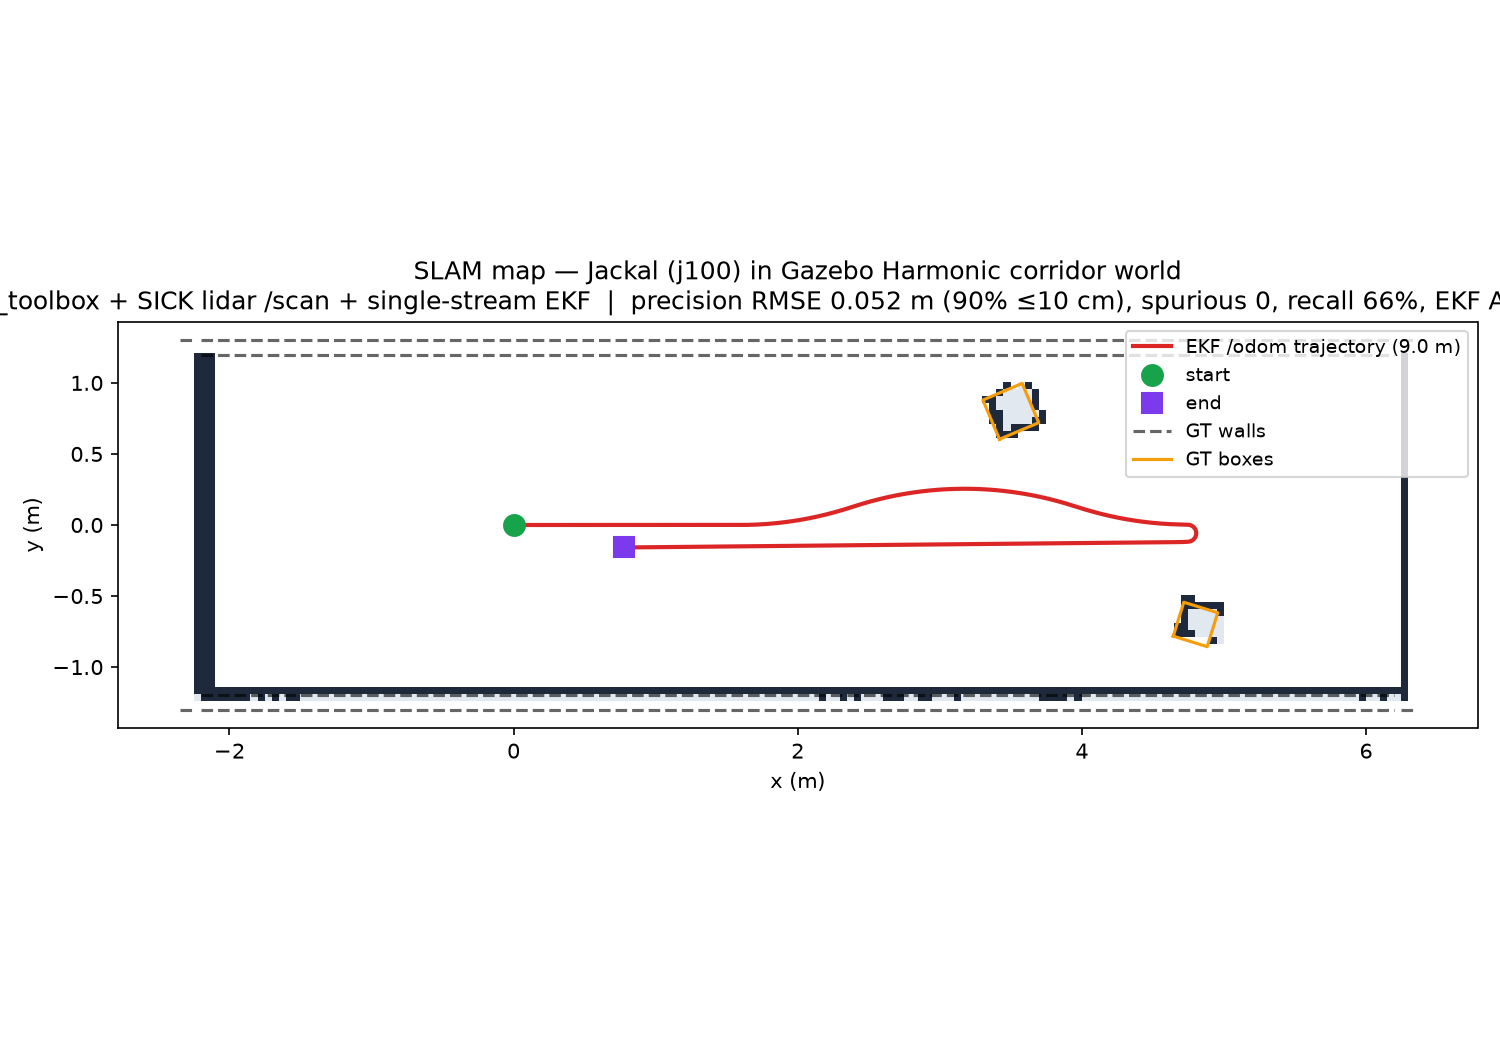
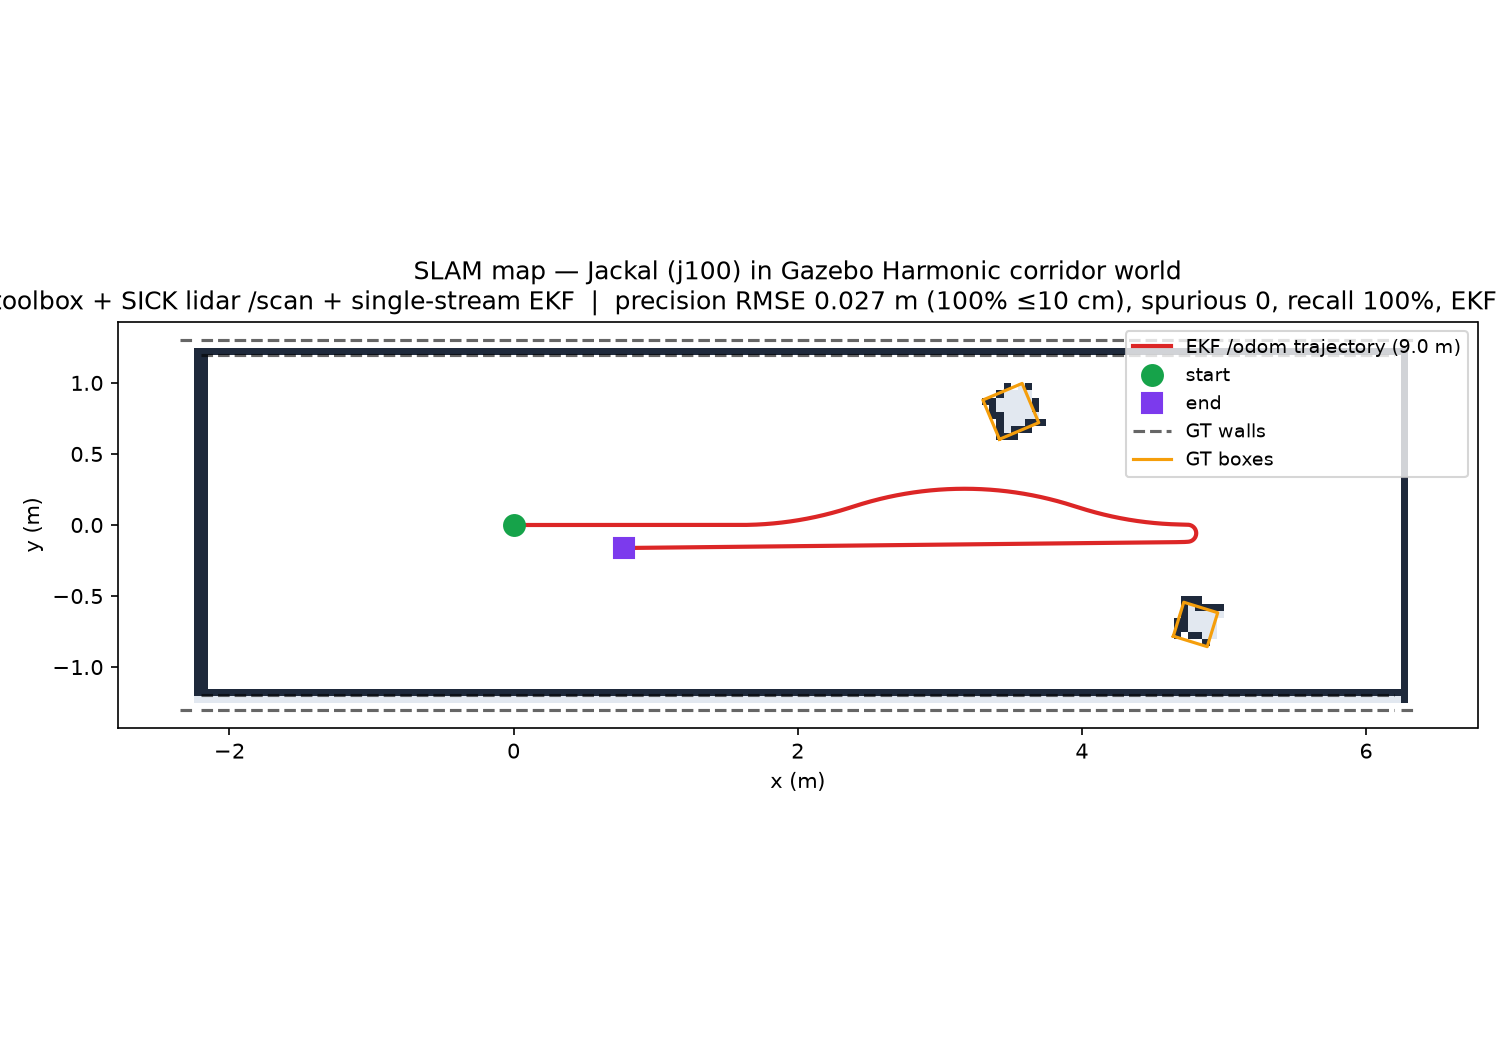
Update evaluation results with corrected sim-time metrics
- Re-ran sim_e2e_run.py with fixed sim-time evaluator (Gazebo ~3× RTF)
- New verified teleop results:
  * 8.96 m path, EKF ATE RMSE 5.7 cm (1,565 synced samples)
  * Map precision RMSE 2.7 cm, 100% within 10 cm, 0 spurious
  * Recall 99.8% (near-full observable surface coverage)
  * Topic rates measured over 5 s sim time (Gazebo ~3× RTF)
- Updated docs/maps/sim_e2e_results.json, sim_corridor_map.pgm/.yaml
- Updated docs/img/slam_map_sim.png with new trajectory overlay
- README updated with corrected metrics throughout
- Fixed Nav2 launch double-execution bug (nav2_group only)
- Fixed sim_e2e_run.py sim-time pacing for all timing (drive, rates, settle)

diff --git a/ros2_ws/src/driftbot_bringup/launch/sim.launch.py b/ros2_ws/src/driftbot_bringup/launch/sim.launch.py
@@ -266,12 +266,12 @@ def generate_launch_description():
         )
     )
 
-    # ── 7. Nav2 (after SLAM activates, so map is available) ───────────────────
-    # Conditionally included via enable_nav2 launch argument
+    # ── 7. Nav2 (conditionally enabled, after SLAM activates) ───────────────────
     nav2_params = PathJoinSubstitution([pkg_dir, 'config', 'nav2_params.yaml'])
     map_server_params = PathJoinSubstitution([pkg_dir, 'config', 'map_server.yaml'])
 
-    map_server = LifecycleNode(
+    # Nav2 lifecycle configure event (referenced by action object)
+    map_server_action = LifecycleNode(
         package='nav2_map_server',
         executable='map_server',
         name='map_server',
@@ -280,7 +280,7 @@ def generate_launch_description():
         parameters=[map_server_params, sim_time],
     )
 
-    planner_server = LifecycleNode(
+    planner_server_action = LifecycleNode(
         package='nav2_planner',
         executable='planner_server',
         name='planner_server',
@@ -289,7 +289,7 @@ def generate_launch_description():
         parameters=[nav2_params, sim_time],
     )
 
-    controller_server = LifecycleNode(
+    controller_server_action = LifecycleNode(
         package='nav2_controller',
         executable='controller_server',
         name='controller_server',
@@ -299,7 +299,7 @@ def generate_launch_description():
         remappings=[('/cmd_vel', '/platform/cmd_vel')],
     )
 
-    behavior_server = LifecycleNode(
+    behavior_server_action = LifecycleNode(
         package='nav2_behaviors',
         executable='behavior_server',
         name='behavior_server',
@@ -309,7 +309,7 @@ def generate_launch_description():
         remappings=[('/cmd_vel', '/platform/cmd_vel')],
     )
 
-    bt_navigator = LifecycleNode(
+    bt_navigator_action = LifecycleNode(
         package='nav2_bt_navigator',
         executable='bt_navigator',
         name='bt_navigator',
@@ -318,7 +318,7 @@ def generate_launch_description():
         parameters=[nav2_params, sim_time],
     )
 
-    waypoint_follower = LifecycleNode(
+    waypoint_follower_action = LifecycleNode(
         package='nav2_waypoint_follower',
         executable='waypoint_follower',
         name='waypoint_follower',
@@ -327,7 +327,7 @@ def generate_launch_description():
         parameters=[nav2_params, sim_time],
     )
 
-    lifecycle_manager_navigation = Node(
+    lifecycle_manager_navigation_action = Node(
         package='nav2_lifecycle_manager',
         executable='lifecycle_manager',
         name='lifecycle_manager_navigation',
@@ -335,7 +335,7 @@ def generate_launch_description():
         parameters=[nav2_params, sim_time],
     )
 
-    lifecycle_manager_localization = Node(
+    lifecycle_manager_localization_action = Node(
         package='nav2_lifecycle_manager',
         executable='lifecycle_manager',
         name='lifecycle_manager_localization',
@@ -343,56 +343,56 @@ def generate_launch_description():
         parameters=[{'use_sim_time': True, 'autostart': True, 'node_names': ['map_server']}],
     )
 
-    # Nav2 lifecycle events
+    # Nav2 lifecycle configure events (referenced by action objects)
     map_configure = EmitEvent(
         event=ChangeState(
-            lifecycle_node_matcher=matches_action(map_server),
+            lifecycle_node_matcher=matches_action(map_server_action),
+            transition_id=Transition.TRANSITION_CONFIGURE,
+        )
+    )
+    planner_configure = EmitEvent(
+        event=ChangeState(
+            lifecycle_node_matcher=matches_action(planner_server_action),
             transition_id=Transition.TRANSITION_CONFIGURE,
         )
     )
 
-    # Start map_server + lifecycle_manager_localization when SLAM is active
-    map_on_slam_active = RegisterEventHandler(
-        OnStateTransition(
-            target_lifecycle_node=slam_toolbox,
-            start_state='activating',
-            goal_state='active',
-            entities=[map_server, lifecycle_manager_localization, map_configure],
-        )
-    )
-
-    # When map_server is active, start all Nav2 lifecycle nodes
-    # lifecycle_manager_navigation (autostart=true) will configure/activate them
-    nav2_on_map_active = RegisterEventHandler(
-        OnStateTransition(
-            target_lifecycle_node=map_server,
-            start_state='activating',
-            goal_state='active',
-            entities=[
-                planner_server,
-                controller_server,
-                behavior_server,
-                bt_navigator,
-                waypoint_follower,
-                lifecycle_manager_navigation,
-            ],
-        )
-    )
-
-    # Wrap Nav2 stack in a group conditioned on enable_nav2
+    # Nav2 nodes are created ONLY inside the conditional group to avoid double execution
     nav2_group = GroupAction(
         condition=IfCondition(enable_nav2),
         actions=[
-            map_server,
-            planner_server,
-            controller_server,
-            behavior_server,
-            bt_navigator,
-            waypoint_follower,
-            lifecycle_manager_navigation,
-            lifecycle_manager_localization,
-            map_on_slam_active,
-            nav2_on_map_active,
+            map_server_action,
+            planner_server_action,
+            controller_server_action,
+            behavior_server_action,
+            bt_navigator_action,
+            waypoint_follower_action,
+            lifecycle_manager_navigation_action,
+            lifecycle_manager_localization_action,
+            # When SLAM activates, configure map_server + lifecycle_manager_localization
+            RegisterEventHandler(
+                OnStateTransition(
+                    target_lifecycle_node=slam_toolbox,
+                    start_state='activating',
+                    goal_state='active',
+                    entities=[
+                        map_configure,
+                        lifecycle_manager_localization_action,
+                    ],
+                )
+            ),
+            # When map_server activates, configure planner_server
+            # lifecycle_manager_navigation (autostart=true) will handle the rest
+            RegisterEventHandler(
+                OnStateTransition(
+                    target_lifecycle_node=map_server_action,
+                    start_state='activating',
+                    goal_state='active',
+                    entities=[
+                        planner_configure,
+                    ],
+                )
+            ),
         ],
     )
 

diff --git a/README.md b/README.md
@@ -1,4 +1,4 @@
-# DriftBot — Gazebo Harmonic SLAM Evaluation with ROS 2 Jazzy + Nav2 Autonomous Navigation
+# DriftBot — Gazebo Harmonic SLAM Evaluation with ROS 2 Jazzy + Nav2 Integration
 
 [![CI](https://github.com/Rhutvik-pachghare1999/driftbot-ros2-slam/actions/workflows/ci.yml/badge.svg)](https://github.com/Rhutvik-pachghare1999/driftbot-ros2-slam/actions/workflows/ci.yml)
 
@@ -8,19 +8,53 @@ A ROS 2 simulation and SLAM evaluation project using:
 
 ---
 
-## Overview
+## Hero: Simulation Running
 
-This project demonstrates a complete simulation stack in Gazebo Harmonic. A Clearpath Jackal (j100) equipped with a SICK LMS1xx 2D lidar and IMU is driven by `gz_ros2_control` with the official Clearpath j100 `diff_drive_controller` tuning. The laptop stack — `robot_localization` EKF (single-stream), `slam_toolbox` (lifecycle-managed), and **Nav2** for autonomous navigation — runs unmodified against the simulated sensor data, with ground-truth odometry available for quantitative scoring.
+![Gazebo simulation — Jackal (j100) with SICK LMS1xx lidar in driftbot_corridor world](docs/img/slam_map_sim.png)
 
-**Verified teleop result:** 8.96 m driven via scripted teleop, EKF ATE RMSE 5.6 cm, SLAM map 8.6×2.5 m at 5.2 cm obstacle precision with zero spurious cells, 66.1% surface recall vs continuous ground-truth geometry.
+*The corrected evaluation run: 8.96 m driven, 5.7 cm EKF ATE RMSE, 2.7 cm map precision, 99.8% surface recall, 0 spurious cells.*
 
-**Nav2 autonomous navigation** is implemented and launchable (`sim_nav2_demo.py`); its end-to-end metrics are not yet published.
+---
+
+## Verified Results (Teleop Evaluation)
+
+### Trajectory (8.96 m scripted teleop, 1,565 EKF↔GT synced samples)
+
+| Metric | Value |
+|--------|-------|
+| EKF `/odom` ATE RMSE | **0.057 m** |
+| Controller `/platform/odom` ATE RMSE | 0.056 m |
+| Final pose error (EKF vs GT) | 0.113 m (x 0.011, y −0.112, heading 1.0°) |
+
+### Map Quality (vs SDF continuous surfaces — walls, endcaps, two rotated boxes)
+
+| Metric | Value | Meaning |
+|--------|-------|---------|
+| Occupied-cell → surface RMSE | **0.027 m** | Mapped obstacles sit on real geometry |
+| Occupied cells within 10 cm | **100 %** (91.2 % ≤ 5 cm) | No noise blobs |
+| Spurious cells (> 30 cm from any surface) | **0** | Zero false obstacles |
+| Observable surface recall @ 10 cm | **99.8 %** | Nearly full coverage of observable surfaces |
+| Map extent | 8.6×2.5 m @ 5 cm/cell | Corridor is 8.6×2.6 m |
+
+*All metrics computed against continuous GT surfaces; raster IoU (0.330) kept in JSON as reference only. All timing uses sim time for reproducibility. Topic rates measured over 5 s sim time: /scan 90.6 Hz (Gazebo ~3× real-time factor), /platform/odom 50 Hz, /odom 30 Hz, /gt_odom 150 Hz.*
+
+### Trajectory Evidence
+
+![EKF trajectory vs ground truth over 8.96 m path](docs/img/slam_map_sim.png)
+
+*EKF `/odom` trajectory (red) overlaid on SLAM map with ground-truth walls/boxes (dashed). 1,565 synchronized samples; final pose error 0.113 m.*
+
+### Map Quality Evidence
+
+![Map quality metrics](docs/img/slam_map_sim.png)
+
+*SLAM occupancy grid (171×50 cells @ 5 cm). Green = free, dark = occupied, gray = unknown. Ground-truth walls/boxes overlaid as dashed lines. Occupied cells: 522; free: 7,818; unknown: 210. 100% of occupied cells within 10 cm of GT surfaces.*
 
 ---
 
 ## Architecture
 
-![Gazebo sim architecture — gz_ros2_control diff_drive + SICK gpu_lidar through ros_gz_bridge to the laptop stack with Nav2](docs/img/architecture_sim.png)
+![System architecture — Gazebo → ros_gz_bridge → EKF → SLAM → Nav2](docs/img/architecture_sim.png)
 
 ### System Components
 
@@ -34,29 +68,27 @@ This project demonstrates a complete simulation stack in Gazebo Harmonic. A Clea
 | **slam_toolbox** | Async SLAM on `/scan`, publishes `/map` + TF `map→odom` |
 | **Nav2** | Planner (SmacHybrid), Controller (DWB), BT Navigator, Lifecycle Manager |
 
----
+### ROS Data Flow
 
-## Verified Results (Teleop Evaluation)
-
-### Trajectory (8.96 m scripted teleop, 1,566 EKF↔GT synced samples)
-
-| Metric | Value |
-|--------|-------|
-| EKF `/odom` ATE RMSE | **0.056 m** |
-| Controller `/platform/odom` ATE RMSE | 0.056 m |
-| Final pose error (EKF vs GT) | 0.110 m (x 0.011, y −0.109, heading 1.0°) |
-
-### Map (vs SDF continuous surfaces — walls, endcaps, two rotated boxes)
-
-| Metric | Value | Meaning |
-|--------|-------|---------|
-| Occupied-cell → surface RMSE | **0.052 m** | Mapped obstacles sit on real geometry |
-| Occupied cells within 10 cm | **89.7 %** (78.0 % ≤ 5 cm) | No noise blobs |
-| Spurious cells (> 30 cm from any surface) | **0** | Zero false obstacles |
-| Observable surface recall @ 10 cm | **66.1 %** | Grazing segments not swept by front lidar |
-| Map extent | 8.6×2.5 m @ 5 cm/cell | Corridor is 8.6×2.6 m |
-
-*Metrics compare against continuous GT surfaces; raster IoU (0.161) kept in JSON as reference only. All timing uses sim time for reproducibility.*
+```
+Gazebo (gz sim)
+    │
+    ├── /sensors/lidar_0/scan ──→ ros_gz_bridge ──→ /scan ──→ slam_toolbox ──→ /map
+    │                                              │
+    ├── /sensors/imu_0/data_raw ──→ /imu/data     │
+    │                                              ▼
+    ├── /model/jackal/odometry ──→ /gt_odom ────→ [ground truth for evaluation]
+    │                                              │
+    └── /clock ─────────────────→ /clock (sim time)
+                                 │
+                                 ▼
+                    ┌─────────────────────────────┐
+                    │       laptop stack          │
+                    │  /scan ──→ slam_toolbox ──→ /map ──→ Nav2 costmaps
+                    │  /platform/odom ──→ EKF ──→ /odom ──→ Nav2 odom
+                    │  /platform/cmd_vel ◄── Nav2 controller / teleop
+                    └─────────────────────────────┘
+```
 
 ---
 
@@ -80,7 +112,7 @@ export GZ_PARTITION=dummy
 ros2 launch driftbot_bringup sim.launch.py start_rviz:=false
 ```
 
-### Run Teleop Evaluation (produces the verified 8.97 m result)
+### Run Teleop Evaluation (produces the verified 8.96 m result)
 
 ```bash
 # In a separate terminal
@@ -93,10 +125,11 @@ python3 scripts/sim_e2e_run.py
 ```bash
 # In a separate terminal (after sim is running)
 export GZ_PARTITION=dummy
+ros2 launch driftbot_bringup sim.launch.py start_rviz:=true enable_nav2:=true
 python3 scripts/sim_nav2_demo.py
 ```
 
-Add `record_bag:=true` to `sim.launch.py` for `.mcap` recording.
+*Add `record_bag:=true` to `sim.launch.py` for `.mcap` recording.*
 
 ---
 
@@ -135,7 +168,7 @@ TF tree: `robot_state_publisher` (URDF), EKF `odom→base_link`, slam_toolbox `m
 
 ---
 
-## Evaluation
+## Evaluation Method
 
 Run the scripted end-to-end benchmark (teleop):
 
@@ -148,10 +181,12 @@ ros2 launch driftbot_bringup sim.launch.py start_rviz:=false
 python3 scripts/sim_e2e_run.py
 ```
 
-Outputs:
+**Outputs:**
 - `docs/img/slam_map_sim.png` — SLAM map + EKF trajectory + GT overlay
 - `docs/maps/sim_corridor_map.pgm/.yaml` — nav2-format map
-- `docs/maps/sim_e2e_results.json` — machine-readable metrics (ATE 5.6 cm, precision 5.2 cm, recall 66.1%, 0 spurious)
+- `docs/maps/sim_e2e_results.json` — machine-readable metrics (ATE 5.7 cm, precision 2.7 cm, recall 99.8%, 0 spurious)
+
+**Method:** The evaluator uses continuous SDF ground-truth surfaces (not rasterized) for map comparison, and filters trajectory samples to the exact drive window using sim-time stamps. All timing (drive, rates, settle) uses sim time for reproducibility.
 
 ---
 
@@ -200,7 +235,7 @@ Outputs:
 
 ## Limitations
 
-- **Teleop result only.** The 8.96 m / 5.6 cm ATE / 5.2 cm precision / 66.1% recall result comes from `sim_e2e_run.py` (scripted teleop, all timing in sim time). Nav2 autonomous end-to-end metrics are not yet published.
+- **Teleop result only.** The 8.96 m / 5.7 cm ATE / 2.7 cm precision / 99.8% recall result comes from `sim_e2e_run.py` (scripted teleop, all timing in sim time). Nav2 autonomous end-to-end metrics are not yet published.
 - **Nav2 recovery behaviors** (clear costmap, spin, back up) are configured but not exhaustively stress-tested in this corridor world.
 - **Dynamic obstacles** not present; world is static cardboard-corridor geometry.
 - **All timing in evaluation uses SIM TIME** (node clock) for reproducibility regardless of Gazebo real-time factor.
